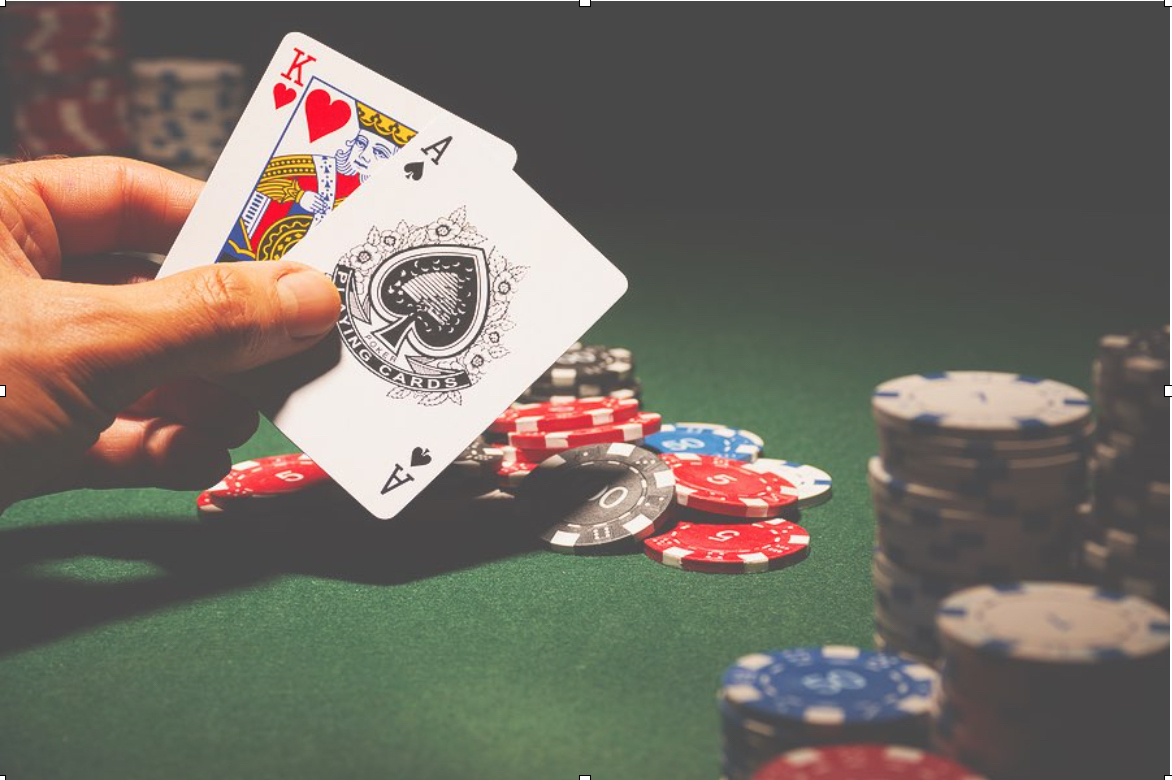
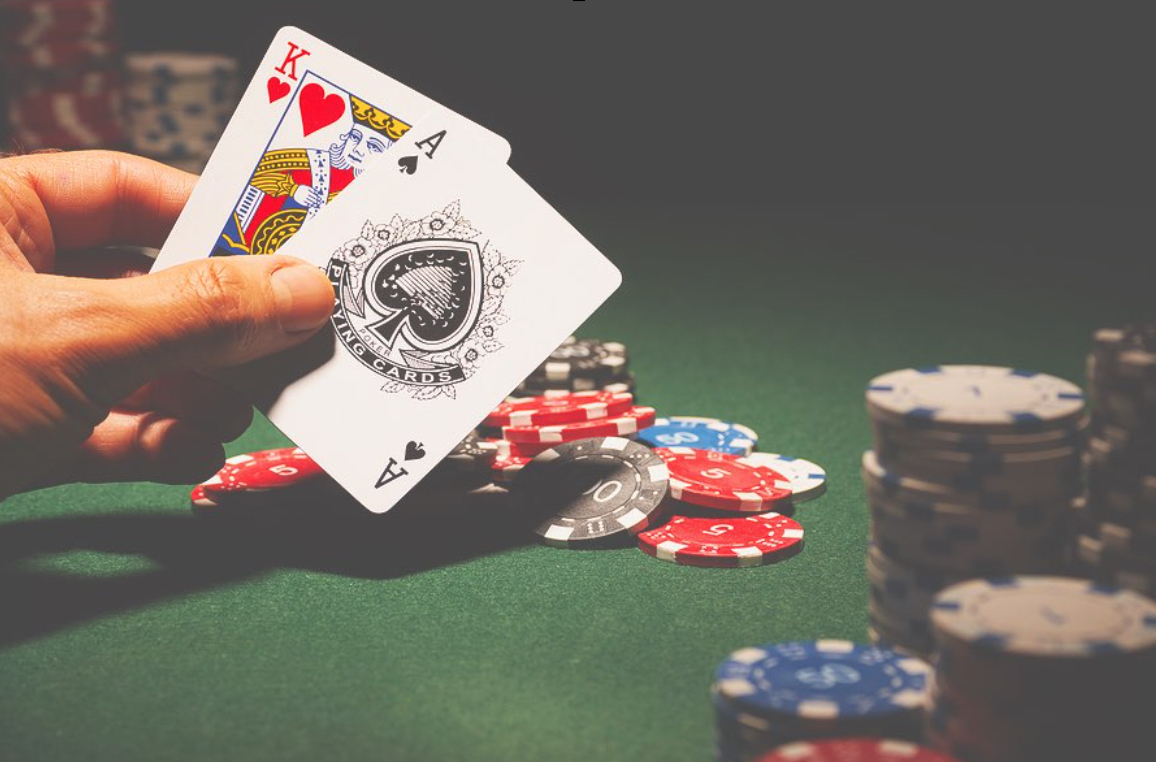
UI elements

diff --git a/blackjack.html b/blackjack.html
@@ -7,19 +7,24 @@
 </head>
 <body>
 <div id="main">
-<h1>BLACKJACK</h1>
+<!-- <h1>BLACKJACK</h1> -->
+
+<!-- BlackJack Logo -->
+<img src="logo.png" alt="Logo" style= "width:50%; height:50%; margin-left: 15%">
+
 <h3 id="hdrTotal"></h3><h3 id="hdrResult"></h3>
 
-<div id="dealer_hand">
+<div id="dealer_hand" style="margin-left: -8%">
 </div>
 
+<label id="lblScore">Total Score: 0</label>
 <input type="button" id="hitme_btn" value="HIT ME" onclick="hit()"></input>
 
 <input type="button" id="stay_btn" value="STAY" onclick="stay()"></input>
 
 <input type="button" id="deal_btn" value="DEAL" onclick="deal()"></input>
 
-<div id="player_hand">
+<div id="player_hand" style="margin-left: -8%">
 </div>
 
 </div>
@@ -31,10 +36,13 @@
 </body>
 <style>
     body {
-        background-image: url("blackjack.jpg");
+        background-image: url("blackjack_moreblurred.png");
 				background-size: cover;
 
     }
+		#lblScore {
+
+		}
 
 </style>
 </html>

diff --git a/style.css b/style.css
@@ -43,7 +43,7 @@
 	height: 30px;
 	background-color: white;
 	border: 2px solid #4CAF50; /* Green */
-	left: 25px;
+	left: 130px;
 }
 
 h1 {
